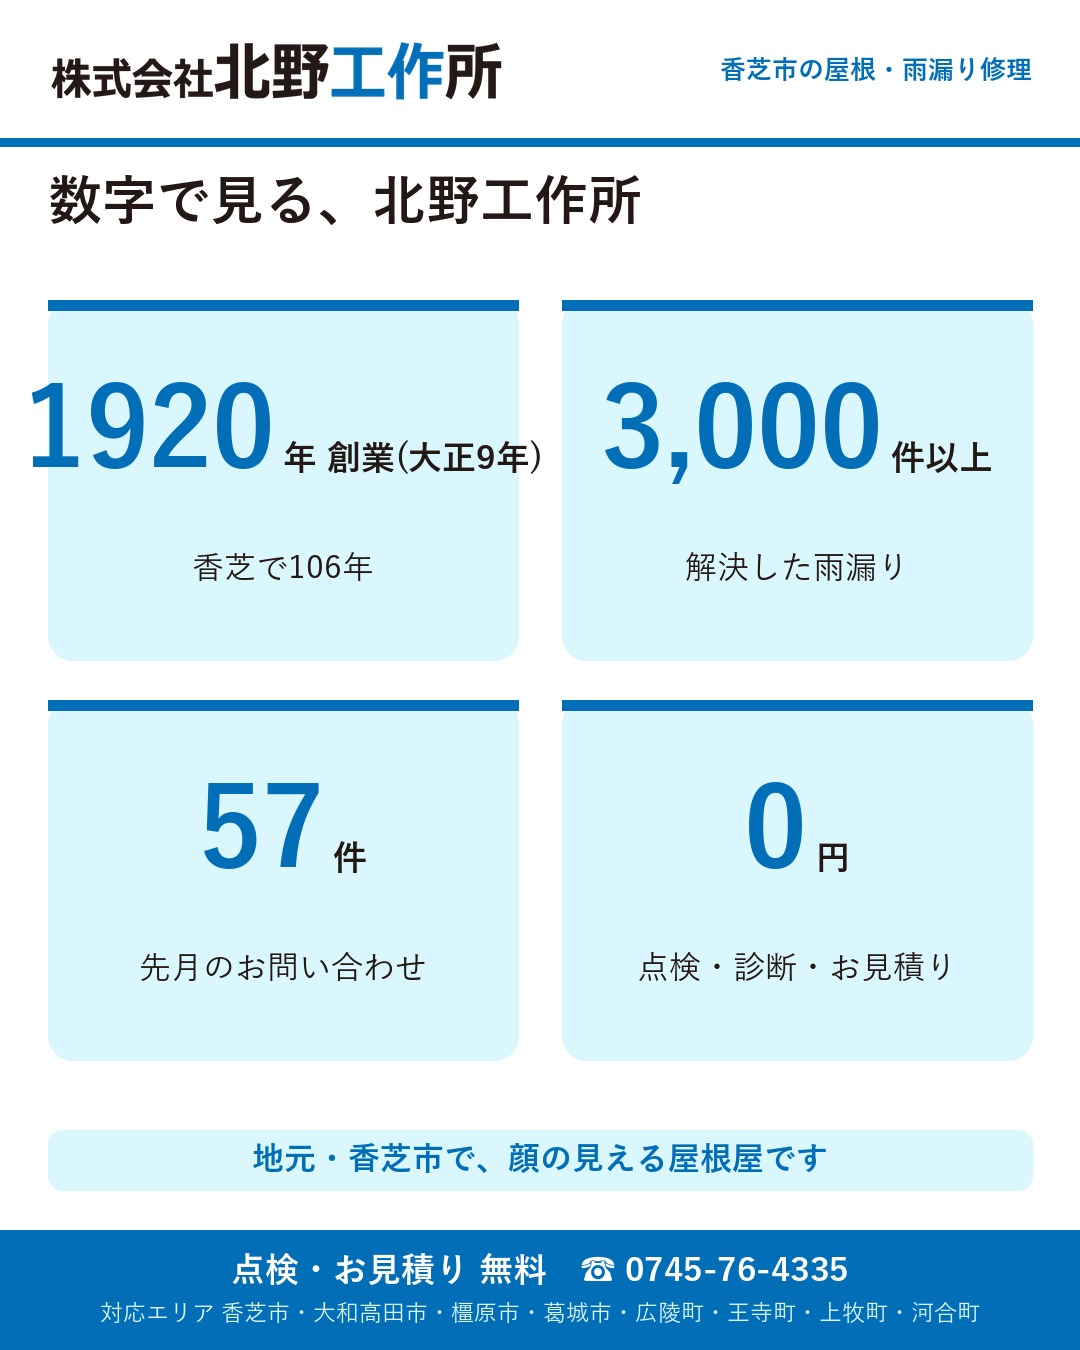
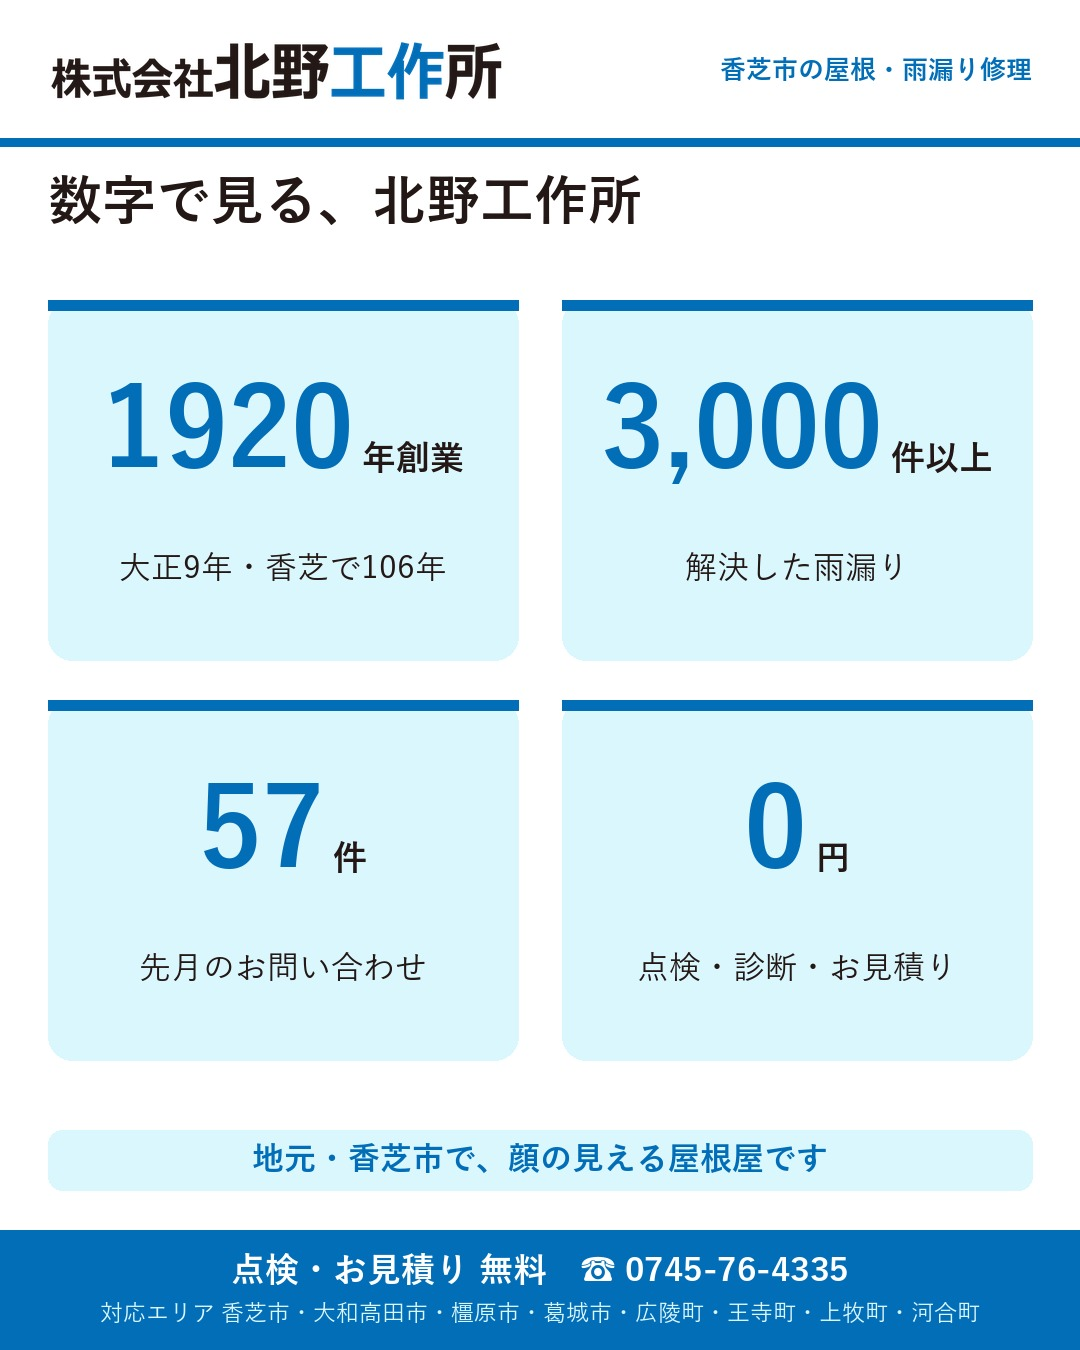
数字カードの文字はみ出し修正(自動縮小)、02を投稿し直し

Changed region(s): [[0.0306, 0.28, 0.4889, 0.3733], [0.1222, 0.4044, 0.4278, 0.4356]]

diff --git a/make_posts.py b/make_posts.py
@@ -145,7 +145,7 @@ def post01():
 def post02():
     im, d = base()
     title_block(d, "数字で見る、北野工作所")
-    boxes = [("1920", "年 創業(大正9年)", "香芝で106年"),
+    boxes = [("1920", "年創業", "大正9年・香芝で106年"),
              ("3,000", "件以上", "解決した雨漏り"),
              ("57", "件", "先月のお問い合わせ"),
              ("0", "円", "点検・診断・お見積り")]
@@ -154,10 +154,14 @@ def post02():
         x = 48 + (i % 2) * (bw + 44); y = 300 + (i // 2) * (bh + 40)
         rounded(d, [x, y, x + bw, y + bh], 24, LIGHT)
         d.rectangle([x, y, x + bw, y + 10], fill=BLUE)
-        f = font(110); fu = font(34); fl = font(32, False)
-        nw = f.getlength(num); uw = fu.getlength(unit)
+        size = 110
+        while True:  # 枠(左右30px余白)に収まるまで数字を小さくする
+            f = font(size); fu = font(34); fl = font(32, False)
+            nw = f.getlength(num); uw = fu.getlength(unit)
+            if nw + uw + 8 <= bw - 60 or size <= 70: break
+            size -= 4
         sx = x + (bw - nw - uw - 8) / 2
-        d.text((sx, y + 70), num, font=f, fill=BLUE)
+        d.text((sx, y + 70 + (110 - size) // 2), num, font=f, fill=BLUE)
         d.text((sx + nw + 8, y + 140), unit, font=fu, fill=INK)
         d.text((x + (bw - fl.getlength(label)) / 2, y + 250), label, font=fl, fill=INK)
     band_note(d, "地元・香芝市で、顔の見える屋根屋です", y=1130)
